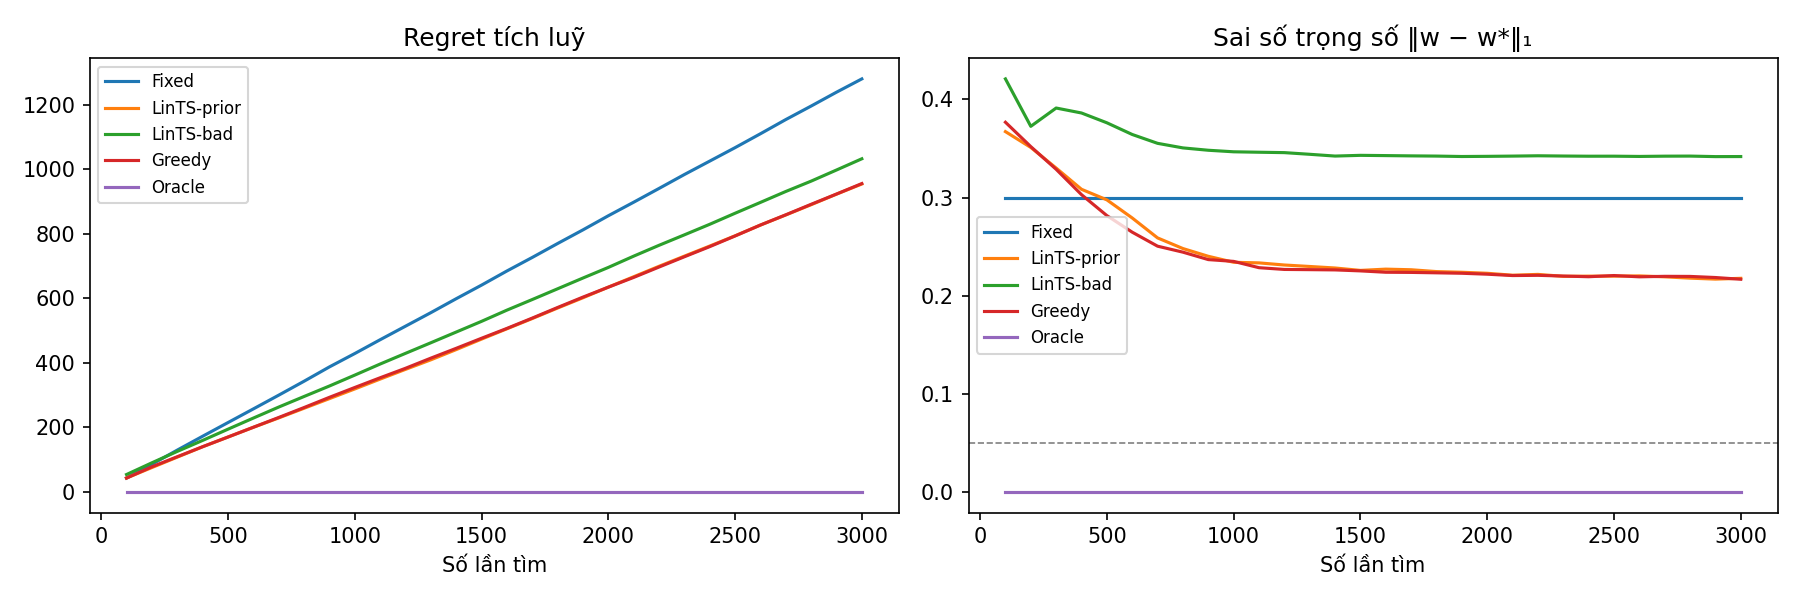
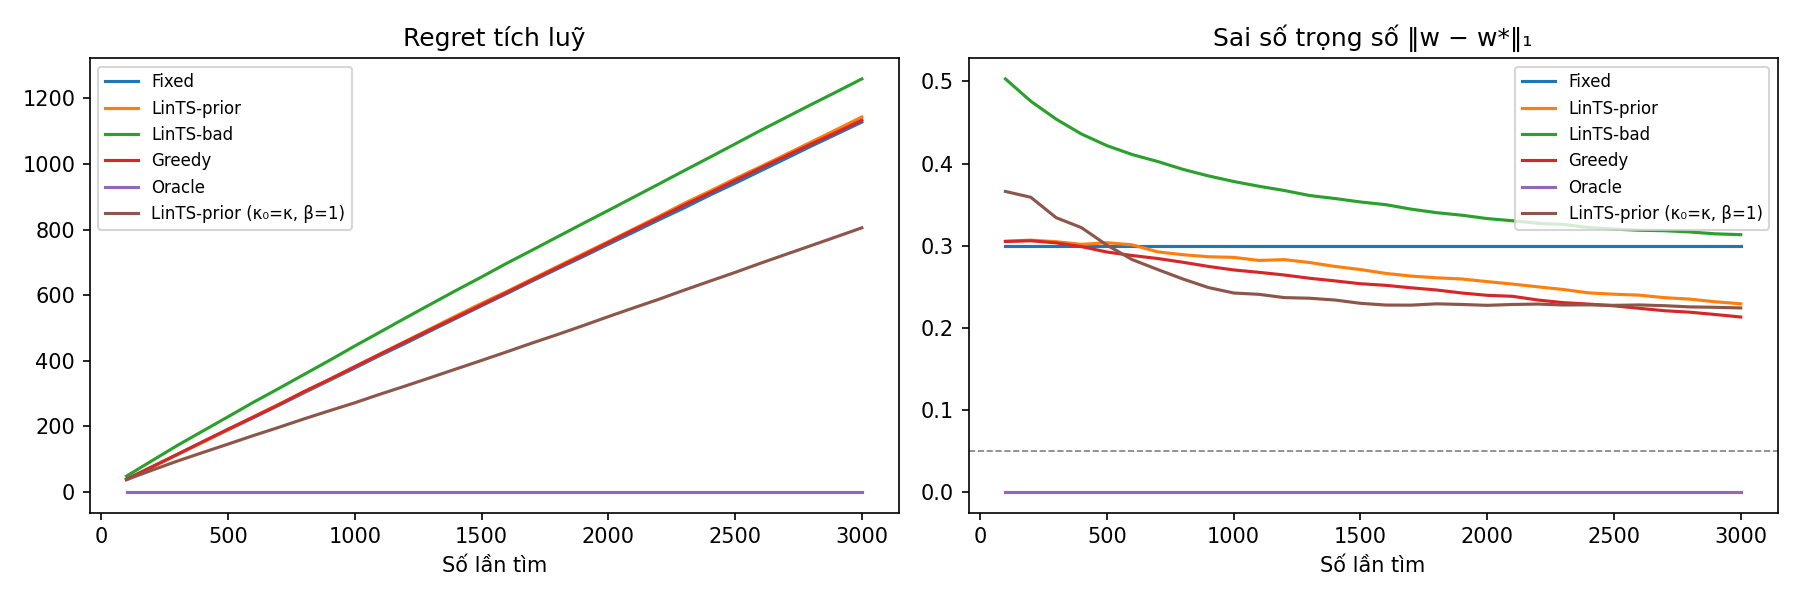
docs(recommendation): record the learning and complaint penalty fixes

diff --git a/docs/recommendation/ket-qua/README.md b/docs/recommendation/ket-qua/README.md
@@ -65,26 +65,33 @@ Mọi tham số: |ΔNDCG@10| ≤ 0,009, Kendall τ của top-10 ≥ 0,88. Nhạy
 
 ## Thí nghiệm học L1 — 9.9.3, 9.9.4 (3 000 lần tìm × 10 seed)
 
-Chạy với `project` đã sửa (21/10/2026, 12 mục 12.3). Kết quả của bản `project` cũ ghi ở cuối mục.
+Mô hình theo 12.3 bản 21/10/2026: `project` chuẩn hoá trước rồi kẹp; hệ số chặn có prior yếu (κ₀ = 1); prior đưa về
+thang phần thưởng θ_prior = (0, β·w), β đo trên lô đầu. Đặc trưng xuất từ lượt V2-full với rerank `top-k` 10 (khác lượt
+đầu, nên số không so trực tiếp với các bảng trước). Dòng cuối là mô hình **trước** sửa hệ số chặn, chạy trên cùng dữ liệu.
 
-| Cấu hình | Regret cuối (± sd) | ‖w − w*‖₁ cuối | Trọng số cuối (sem, need, price, style, sched, area, segment) |
-|---|---|---|---|
-| Fixed | 1 280 (± 9) | 0,300 | 0,30 0,20 0,20 0,10 0,10 0,05 0,05 |
-| LinTS-prior | 954 (± 14) | 0,218 | 0,15 0,28 0,32 0,06 0,09 0,03 0,08 |
-| LinTS-bad | 1 032 (± 26) | 0,342 | 0,07 0,29 0,29 0,07 0,12 0,07 0,10 |
-| Greedy | 955 (± 20) | 0,217 | 0,15 0,28 0,32 0,05 0,09 0,03 0,08 |
-| Oracle | 0 | 0 | 0,15 0,20 0,35 0,10 0,10 0,05 0,05 (w*) |
+| Cấu hình | Regret cuối (± sd) | ‖w − w*‖₁ cuối | Bước lớn nhất | Trọng số cuối (sem, need, price, style, sched, area, segment) |
+|---|---|---|---|---|
+| Fixed | 1 128 (± 13) | 0,300 | — | 0,30 0,20 0,20 0,10 0,10 0,05 0,05 |
+| LinTS-prior | 1 144 (± 26) | 0,229 | 0,022 | 0,22 0,20 0,26 0,08 0,11 0,06 0,08 |
+| LinTS-bad | 1 260 (± 30) | 0,313 | 0,020 | 0,12 0,19 0,24 0,09 0,13 0,13 0,10 |
+| Greedy | 1 134 (± 16) | 0,213 | 0,016 | 0,22 0,20 0,27 0,08 0,11 0,05 0,08 |
+| Oracle | 0 | 0 | — | 0,15 0,20 0,35 0,10 0,10 0,05 0,05 (w*) |
+| LinTS-prior, κ₀ = κ, β = 1 (trước sửa) | 805 (± 17) | 0,224 | 0,050 | 0,15 0,29 0,32 0,06 … |
 
-- **L1 giảm regret 25% so với trọng số cố định**; `sem` về đúng biên dưới 0,15 (= w*), `price` lên 0,32 (w* = 0,35).
-- **Chưa hội tụ hẳn về w*** (sai số 0,22; không seed nào dưới 0,05): `need` bị đẩy lên 0,28 thay vì giữ 0,20 — mô hình
-  tuyến tính trên phần thưởng phi tuyến (hấp dẫn dạng sigmoid × mức hành động) và chỉ có mẫu ở top-10 nên hệ số lệch.
-- **Greedy ≈ LinTS-prior**: với 106 truy vấn lặp lại, khám phá Thompson không thêm lợi ích; LinTS-bad thu hẹp khoảng
-  cách nhưng chưa bắt kịp trong 3 000 lần tìm.
-- **An toàn:** bước lớn nhất 0,050 (= `max-step`), mọi trọng số trong biên `[0,5; 2] × prior` — đúng trên trọng số cuối.
-- **Phía b:** AUC dự đoán nhận 0,68–0,70 (Oracle 0,77).
-- **Độ nhạy L1** (κ ∈ {50, 200, 800}, ρ ∈ {0; 0,5; 1; 2}, có / không IPW): `9.9.4-do-nhay-L1.csv`; biểu đồ
-  `9.9.4-regret-va-sai-so.png`.
-- **Đối chiếu Python ↔ Java:** `LinearBayesParityTest` (6 trường hợp, sai lệch ≤ 1e-9) qua.
+**Đọc kết quả (ghi trung thực):**
+- **Sửa hệ số chặn và thang prior không làm kết quả mô phỏng tốt lên.** Trọng số học ra **đúng hướng hơn** (`need` giữ
+  0,20 như w* thay vì bị đẩy lên 0,29; sai số tương đương 0,21–0,23), nhưng **học chậm hơn nhiều** (bước lớn nhất 0,02
+  so với 0,05) nên regret không còn thấp hơn Fixed (1 144 so với 1 128).
+- **Nguyên nhân:** β đo được ≈ 2,2 — trong top-10, điểm prior w·x ít biến thiên (độ lệch chuẩn 0,09) nên phần thưởng
+  tăng dốc theo nó. Khi prior đã đúng thang, κ = 200 giữ trọng số sát hướng prior. Bản cũ "học nhanh" một phần vì prior
+  sai thang (yếu hơn thực tế) và hệ số chặn bị ép về 0 — nhanh nhưng lệch (`need` 0,29).
+- **κ quyết định tốc độ:** với κ = 50, sai số trọng số xuống **0,15** (thấp nhất trong mọi lượt chạy) và regret ~1 060
+  (−6% so với Fixed); κ = 800 gần như không học (`9.9.4-do-nhay-L1.csv`). Đổi κ mặc định là quyết định của nhóm.
+- **Greedy ≈ LinTS-prior**: với 106 truy vấn lặp lại, khám phá Thompson không thêm lợi ích.
+- **An toàn:** mọi trọng số trong biên `[0,5; 2] × prior`, bước ≤ 0,05 trên trọng số cuối.
+- **Phía b:** AUC dự đoán nhận 0,64–0,69 (Oracle 0,77).
+- **Đối chiếu Python ↔ Java:** `LinearBayesParityTest` (6 trường hợp, gồm β và κ₀, sai lệch ≤ 1e-9) qua.
 
-**Bản `project` cũ (trước 21/10/2026)** kẹp θ thô rồi chuẩn hoá: regret LinTS-prior 934, LinTS-bad 1 137, sai số
-0,289 / 0,409; biên kẹp chạm ở mọi lần cập nhật và bước thật tới 0,085 > `max-step`. Đây là phát hiện dẫn tới việc sửa.
+**Các lượt trước (dữ liệu rerank `top-k` 20):** bản `project` cũ (kẹp θ thô rồi chuẩn hoá) — regret LinTS-prior 934,
+LinTS-bad 1 137, sai số 0,289 / 0,409, biên kẹp chạm ở mọi lần cập nhật, bước thật tới 0,085 > `max-step`; sau khi
+sửa `project` — LinTS-prior 954, sai số 0,218.

diff --git a/docs/recommendation/12-hoc-trong-so.md b/docs/recommendation/12-hoc-trong-so.md
@@ -117,13 +117,20 @@ Mỗi mô hình là **hồi quy tuyến tính Bayes** trên vector đặc trưng
 
 ```
 phản hồi r ≈ θ₀ + θ · x + nhiễu,          nhiễu ~ N(0, ν²)
-prior      θ ~ N(θ_prior, (1/κ)·I)         θ_prior = (0, w_prior)    — hệ số chặn có prior 0, rất yếu
+prior      θ ~ N(θ_prior, A₀⁻¹)            θ_prior = (0, β·w_prior)  — hệ số chặn có prior 0, rất yếu
 ```
+
+- **Hệ số chặn** là mức phản hồi nền (dù ứng viên thế nào vẫn có một xác suất bấm nhỏ). Prior của nó rất yếu:
+  độ mạnh riêng `κ₀ = learning.intercept-prior-strength` (mặc định 1), để các trọng số không phải "gánh" mức nền.
+- **β đưa prior về thang phần thưởng:** w có tổng 1 còn phần thưởng có thang riêng. β = Cov(r, w·x) / Var(w·x)
+  (có trọng số mẫu, tối thiểu 0,01; không có biến thiên thì 1) đo một lần trên lô dữ liệu đầu tiên, lưu ở
+  `evaluation.priorScale` của version đầu và mọi version sau dùng lại. Hướng của prior vẫn là trọng số nhóm đặt.
+  Version lưu trước 21/10/2026 không có trường này: coi β = 1, đúng cách chúng đã được tính.
 
 Viết ở dạng "thống kê đủ" để cập nhật dần và lưu được:
 
 ```
-A₀ = κ·I                  c₀ = κ·θ_prior
+A₀ = diag(κ₀, κ, …, κ)    c₀ = A₀·θ_prior
 A  = A₀ + Σ_i s_i · x_i x_iᵀ
 c  = c₀ + Σ_i s_i · r_i · x_i
 μ  = A⁻¹ c                (trung bình hậu nghiệm)
@@ -492,7 +499,7 @@ recommendation_decision_snapshots + bảng đơn (phía b) ◄── DecisionSna
 
 | Thành phần | Việc làm |
 |---|---|
-| `WeightProvider` | Giữ bản trọng số hiện hành của 4 mô hình trong bộ nhớ (`AtomicReference` tới một đối tượng bất biến). **Nạp lúc khởi động** và **nạp lại khi nhận `LearnedWeightsUpdatedEvent`** — không có thời hạn cache, không truy vấn database khi tìm. Phía a: trả mẫu Thompson theo hạt giống (người dùng, ngày) hoặc μ; phía b: trả μ. Chế độ `OFF`, chưa có bản active, hay lỗi đọc → trả prior |
+| `WeightProvider` | Giữ bản trọng số hiện hành của 4 mô hình trong bộ nhớ (`AtomicReference` tới một đối tượng bất biến). **Nạp lúc khởi động** và **nạp lại khi nhận `LearnedWeightsUpdatedEvent`**; thêm **nạp lại định kỳ 10 phút** làm lưới an toàn (`learning.reload-interval-ms`, thêm 21/10/2026: event chỉ tới tiến trình phát ra nó, nên khi chạy nhiều backend hoặc admin đổi chế độ ở tiến trình khác, các tiến trình còn lại vẫn cập nhật trong tối đa 10 phút). Không truy vấn database khi tìm. Phía a: trả mẫu Thompson theo hạt giống (người dùng, ngày) hoặc μ; phía b: trả μ. Chế độ `OFF`, chưa có bản active, hay lỗi đọc → trả prior |
 | `LinearBayesModel` | Lớp toán thuần (không Spring): cập nhật A, c; tính μ; rút mẫu (Cholesky); `project`. Có test đối chiếu với bản Python dùng trong thí nghiệm |
 | `WeightLearningJob` | Job đêm ở 12.7 |
 | `LearningDataRepository` | SQL dựng dữ liệu học: nối log với click log (7 ngày) cho phía a; nối snapshot với bảng đơn cho phía b |
@@ -528,6 +535,8 @@ Thompson làm ở bước sau.
 | `enabled` | `true` | Tắt toàn bộ L1 (mọi mô hình về prior) |
 | `models.<key>.mode` | `SHADOW` | `OFF` / `SHADOW` / `ACTIVE` cho từng mô hình |
 | `prior-strength` (κ) | 200 | Prior đáng giá bao nhiêu quan sát |
+| `intercept-prior-strength` (κ₀) | 1 | Độ mạnh prior của hệ số chặn (thêm 21/10/2026) |
+| `reload-interval-ms` | 600 000 | Nạp lại trọng số định kỳ, lưới an toàn cho event (thêm 21/10/2026) |
 | `noise` (ν) | 0,3 | Độ nhiễu giả định của phản hồi |
 | `exploration-scale` (ρ) | 1,0 | Mức khám phá Thompson phía a; 0 = tham lam |
 | `min-ratio` / `max-ratio` | 0,5 / 2,0 | Biên kẹp quanh prior |

diff --git a/docs/recommendation/10-van-hanh-va-huong-phat-trien.md b/docs/recommendation/10-van-hanh-va-huong-phat-trien.md
@@ -57,7 +57,7 @@
 | `query-embedding.timeout-ms` / `cache-size` | 1 000 / 500 | 06, 6.3 |
 | `jobs.retention-days` / `cleanup-interval-ms` (dọn job đã xong trong `ai_enrichment_jobs`) | 7 / 21 600 000 | 02 |
 | `app.ai-service.base-url` / `connect-timeout-ms` / `embed-timeout-ms` / `health-timeout-ms` / `internal-token` | `http://127.0.0.1:8000` / 500 / 1 000 / 500 / (bí mật) | 10, 10.2 |
-| `learning.enabled` / `models.<key>.mode` / `prior-strength` / `exploration-scale` / `min-ratio` / `max-ratio` / `max-step` | true / `SHADOW` / 200 / 1,0 / 0,5 / 2,0 / 0,05 | 12, 12.10 (bảng đầy đủ, gồm thang thưởng và mẫu phía b) |
+| `learning.enabled` / `models.<key>.mode` / `prior-strength` / `intercept-prior-strength` / `exploration-scale` / `min-ratio` / `max-ratio` / `max-step` / `reload-interval-ms` | true / `SHADOW` / 200 / 1 / 1,0 / 0,5 / 2,0 / 0,05 / 600 000 | 12, 12.10 (bảng đầy đủ, gồm thang thưởng và mẫu phía b) |
 | `algorithm-version` | `v2.2-rcx` (trước Bước 8: `v2.1-a`; Bước 8–10: `v2.1-rc`) | Ghi vào log |
 
 Cờ bật/tắt từng thành phần: `reciprocal`, `rerank`, `exploration`, `history`, `relaxation`, `refine`,

diff --git a/docs/recommendation/06-thuat-toan-xep-hang.md b/docs/recommendation/06-thuat-toan-xep-hang.md
@@ -387,7 +387,8 @@ mức(c) = trọng số loại × (0,5 nếu BOTH, 1 nếu không)
   khi T là người gửi mà có lỗi: 1,0 (loại do T chọn mô tả học sinh, không mô tả lỗi của T)
 
 W       = Σ mức(c)
-n       = số hợp đồng đã ký của T (ACTIVE, COMPLETED, CANCELLED; không tính PENDING, đã xoá)
+n       = số hợp đồng đã ký của T (`signed_at` có giá trị, chưa xoá — theo chữ ký, không theo trạng thái:
+          hợp đồng bị từ chối / hết hạn khi chưa ký cũng thành CANCELLED; sửa 21/10/2026)
 phạt_K  = min(20, 40 × W / (n + 5))
 score   = clamp(… − phạt_khoá − phạt_K, 0, 100)
 ```
